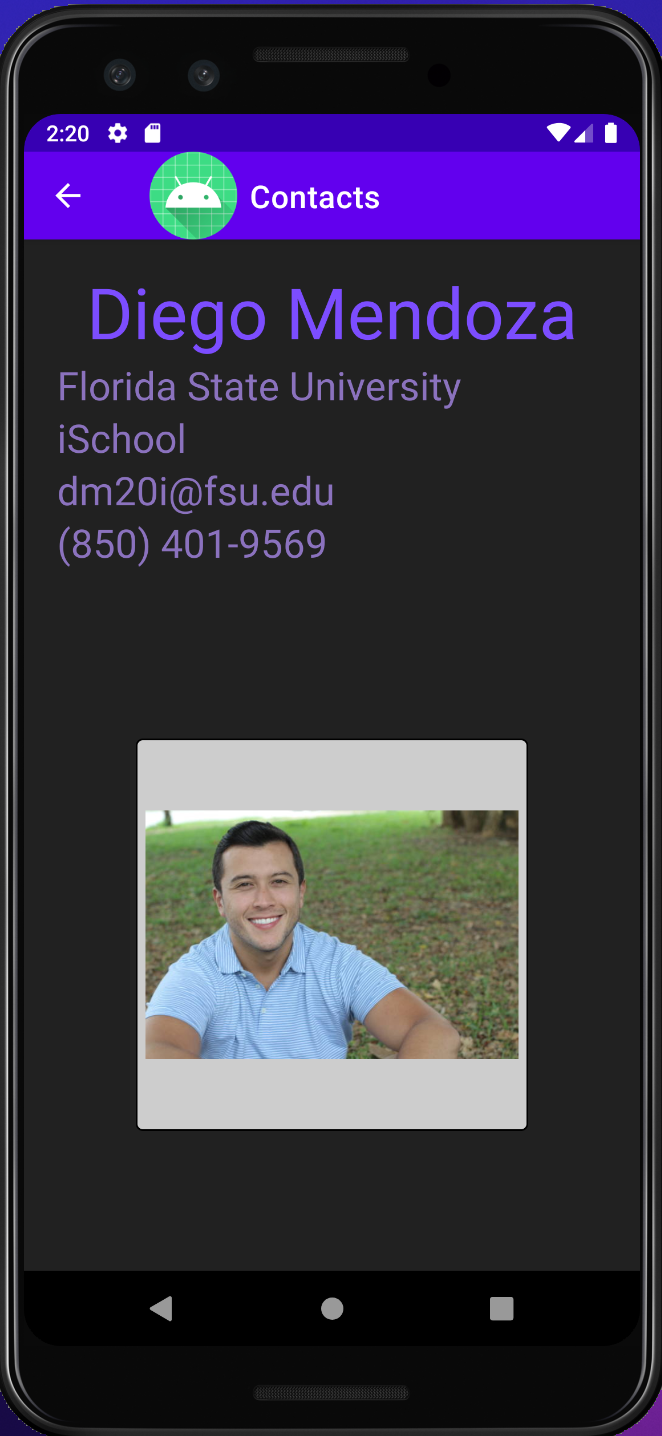
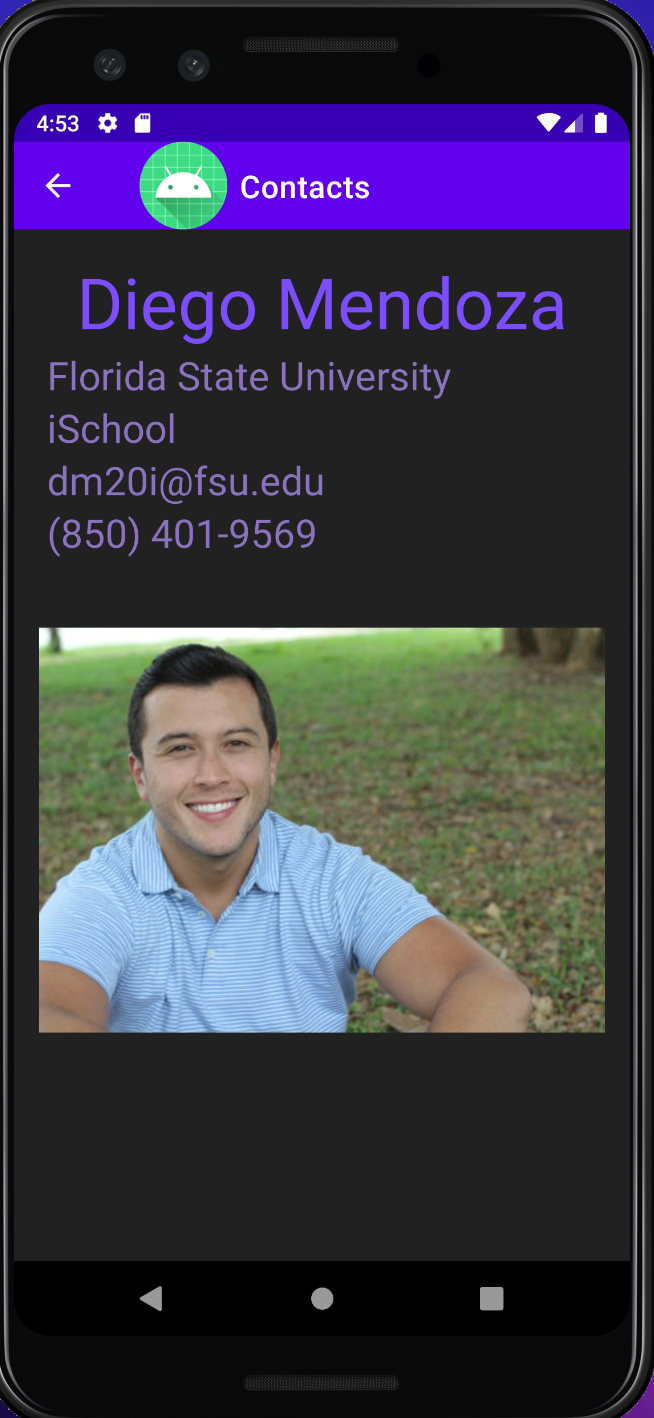
changed pics

diff --git a/a1/README.md b/a1/README.md
@@ -37,9 +37,9 @@
 | ---------- | ---------- |
 | ![Contacts Main Menu](img/Contact_main.png) | ![Ronald Information](img/Contact_ron.png) 
 
-| Screenshot of Contacts Information: Lillian | Screenshot of Contacts Information: Ronald |
-| ---------- | ---------- |
-| ![Lillian Information](img/Contact_lily.png) | ![Diego Information](img/Contact_diego.png) 
+| Screenshot of Contacts Information: Lillian | Screenshot of Contacts Information: Diego | Screenshot of Contacts Information: William |
+| ---------- | ---------- | ---------- |
+| ![Lillian Information](img/Contact_lily.png) | ![Diego Information](img/Contact_diego.png) | ![William Information](img/Contact_willy.png)
 
 #### Tutorial Links:
 
